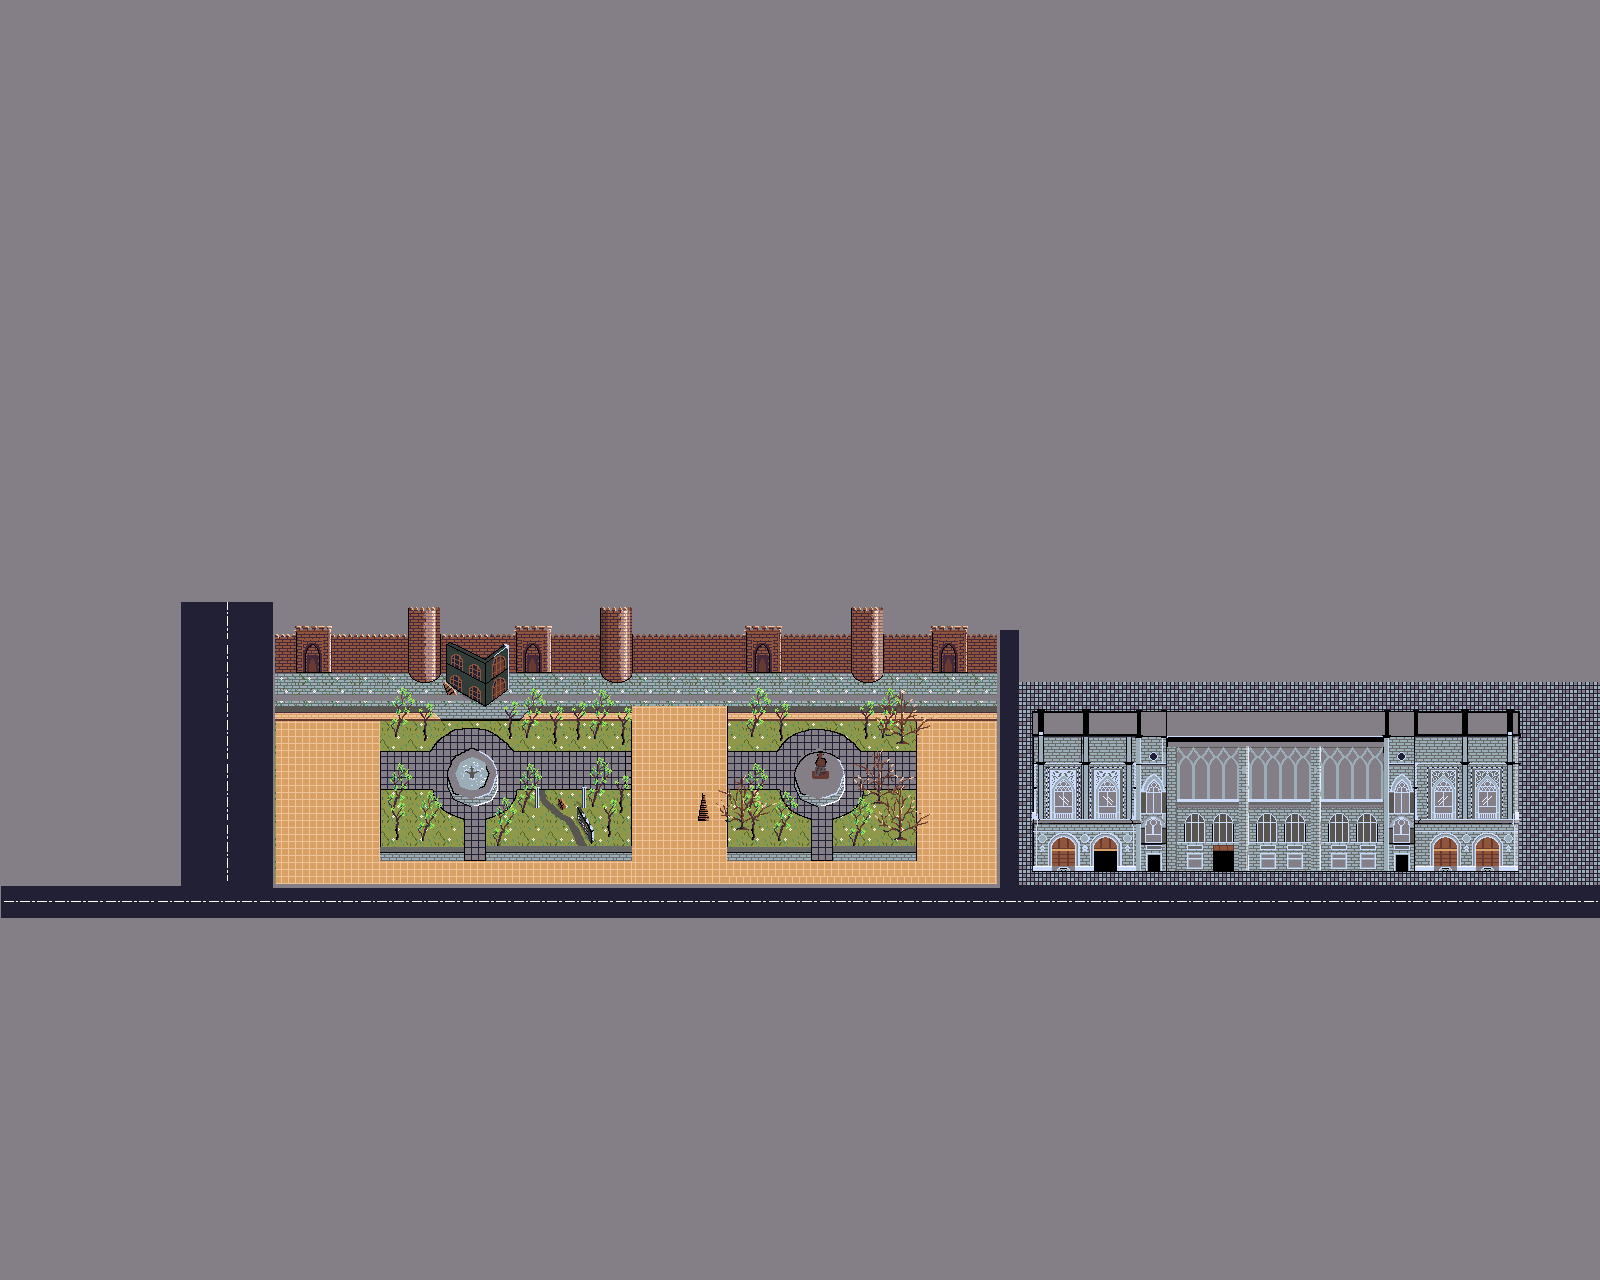
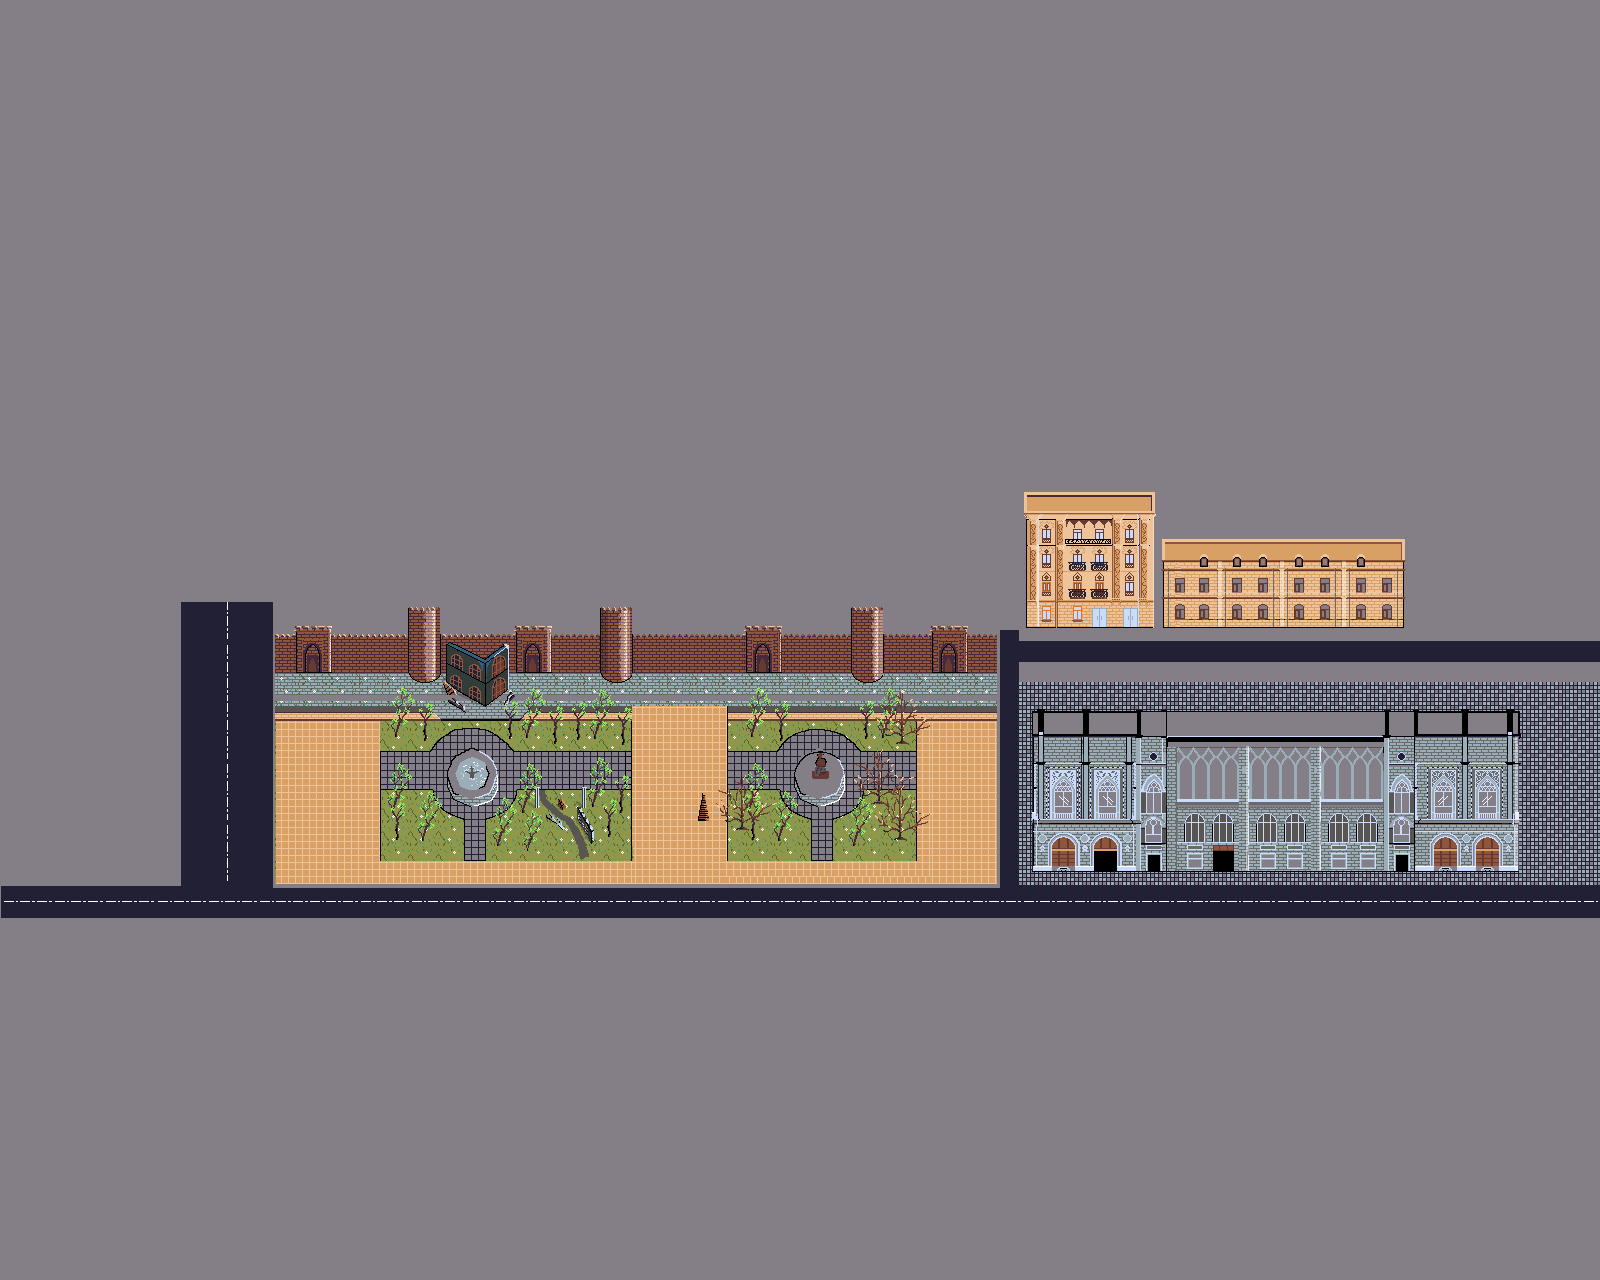
update world 5 and change initial map to brith world

Changed region(s): [[0.625, 0.375, 1.0, 0.5312], [0.2188, 0.6562, 0.4062, 0.6875], [0.4375, 0.6562, 0.5938, 0.6875]]

diff --git a/src/client/game.ts b/src/client/game.ts
@@ -14,7 +14,7 @@ class Game {
     world: World;
     dog: Animal;
     interactionHandler: InteractionHandler;
-    currentMap: MapName = "world";
+    currentMap: MapName = "birth_world";
     private isChangingWorld = false;
     private arrivalSwitcherId: number | null = null;
     mobileUI: MobileUI;
@@ -75,7 +75,7 @@ class Game {
         canvas.addEventListener("pointerdown", this.handleStartPointer);
         canvas.addEventListener("pointerdown", this.handleSoundButtonPointer);
         canvas.addEventListener("pointerdown", this.handleScaleButtonPointer);
-        this.world = new World(assetUrl("images/world.png"), assetUrl("images/world_front.png"));
+        this.world = new World(assetUrl("images/birth_world.png"), "", assetUrl("map_properties/birth_world.tmj"));
         this.player = new Player(assetUrl("images/character.png"));
         this.dog = new Animal(assetUrl("images/animal.png"));
         this.interactionHandler = new InteractionHandler(this.world, this.player);

diff --git a/index.html b/index.html
@@ -3,7 +3,7 @@
 <head>
     <meta charset="UTF-8">
     <meta name="viewport" content="width=device-width, initial-scale=1.0">
-    <title>IDR Game</title>
+    <title>Dispersed Memory</title>
     <link rel="icon" type="image/png" href="images/icon.png">
     <link rel="stylesheet" href="styles/main.css">
 </head>
